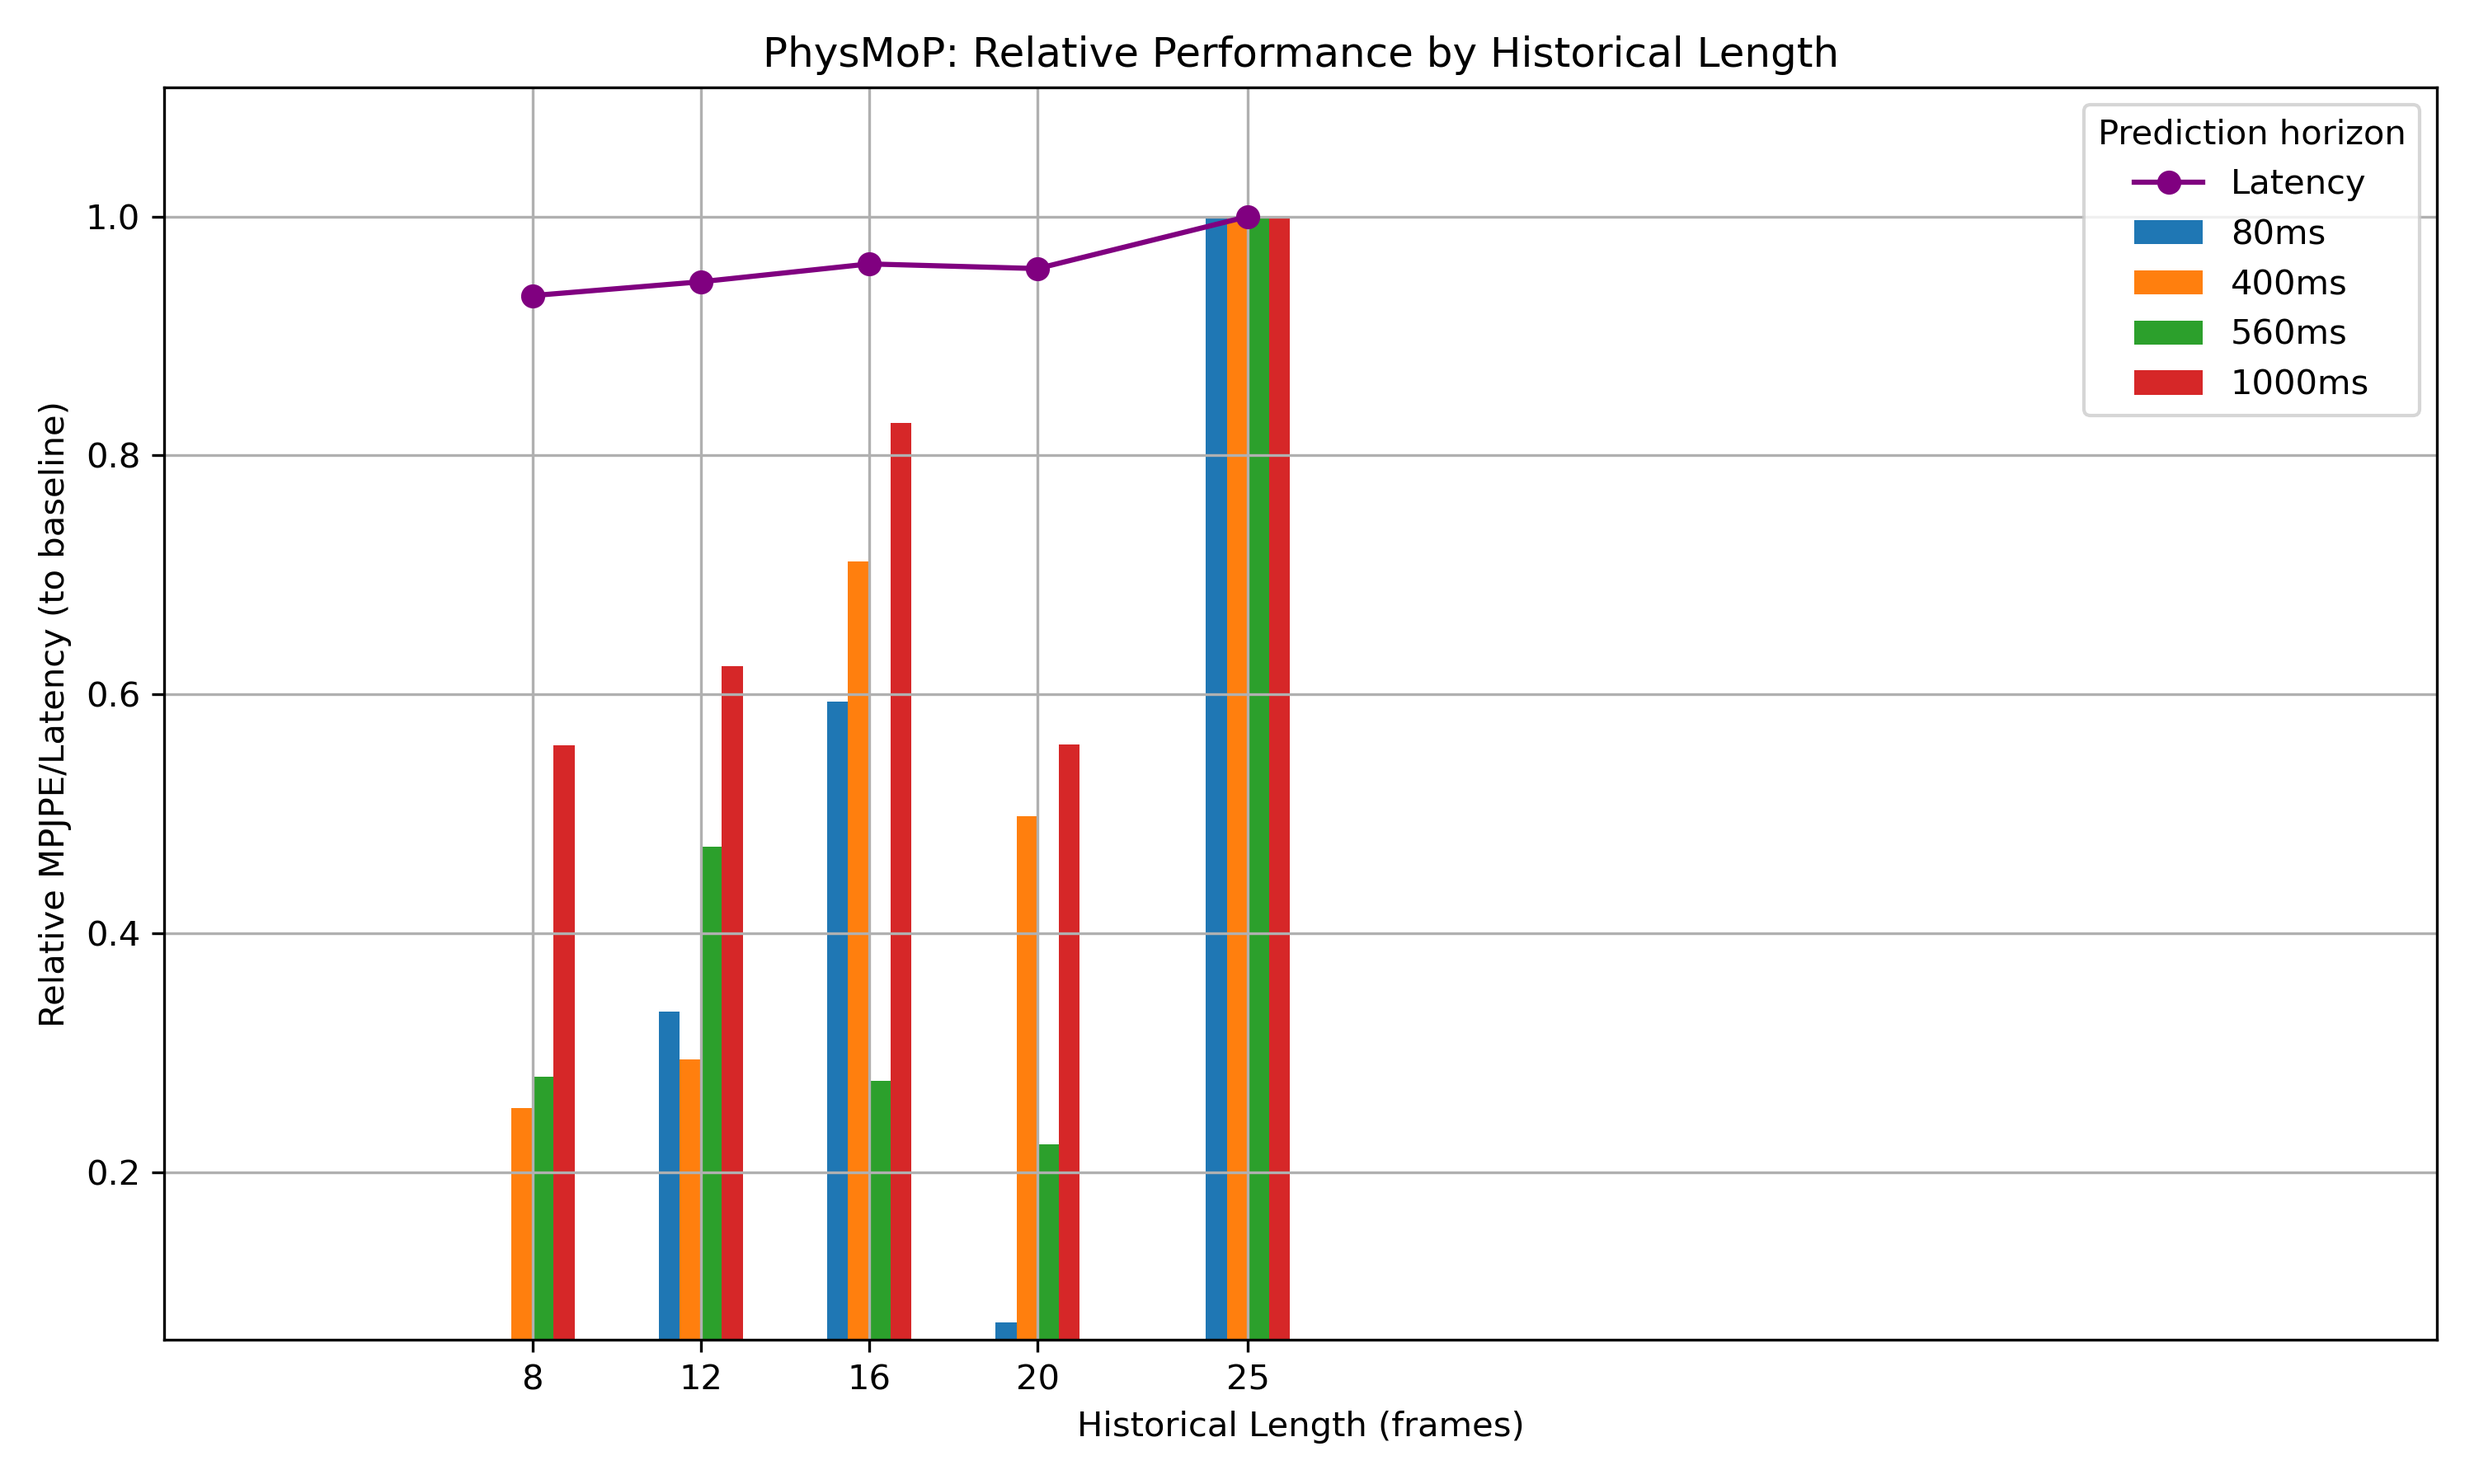
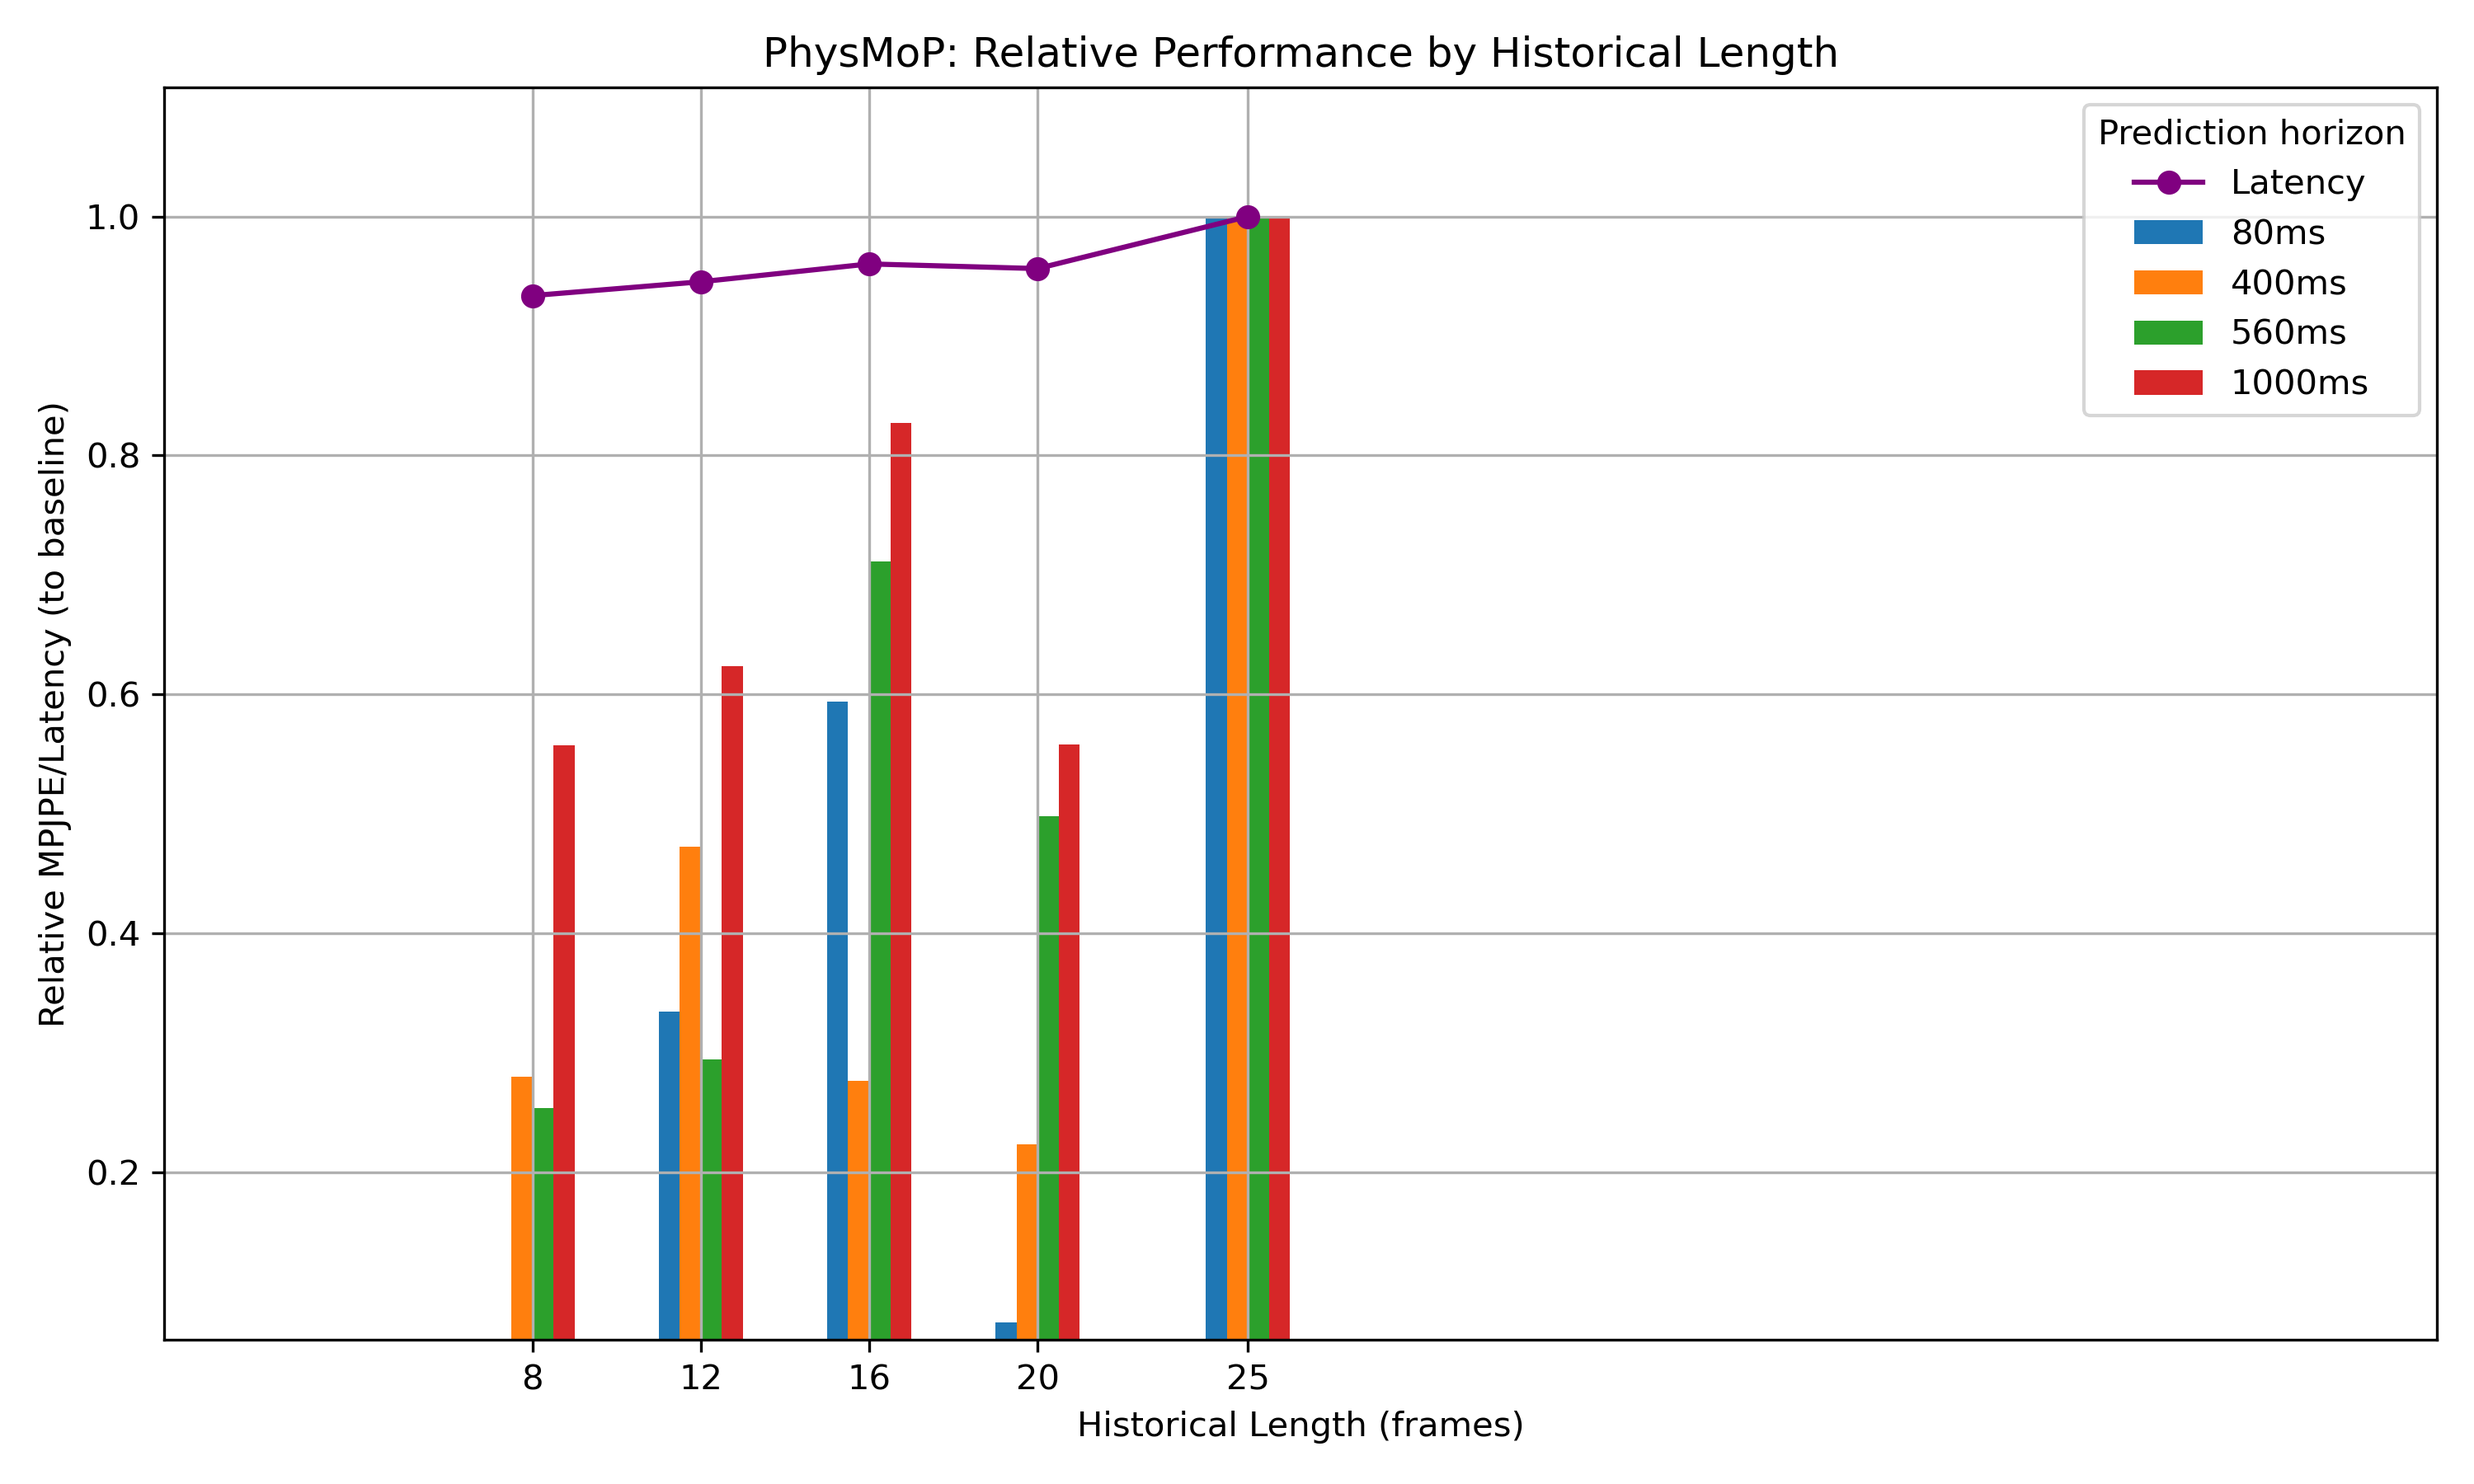
Actually do it correct

diff --git a/exps/run/eval_different_lengths.py b/exps/run/eval_different_lengths.py
@@ -35,8 +35,8 @@ def get_physmop_metrics_at_latest_timestep(path, length):
     upper = parse_physmop_data(path, "upper body")
     lower = parse_physmop_data(path, "lower body")
     # Select columns for the 4 time horizons
-    upper = upper[:, [1, 4, 3, 7]]
-    lower = lower[:, [1, 4, 3, 7]]
+    upper = upper[:, [1, 3, 4, 7]]
+    lower = lower[:, [1, 3, 4, 7]]
     combined = np.mean([upper, lower], axis=0)  # shape: (length, 4)
     return combined[length-1]  # last timestep for given length
 
